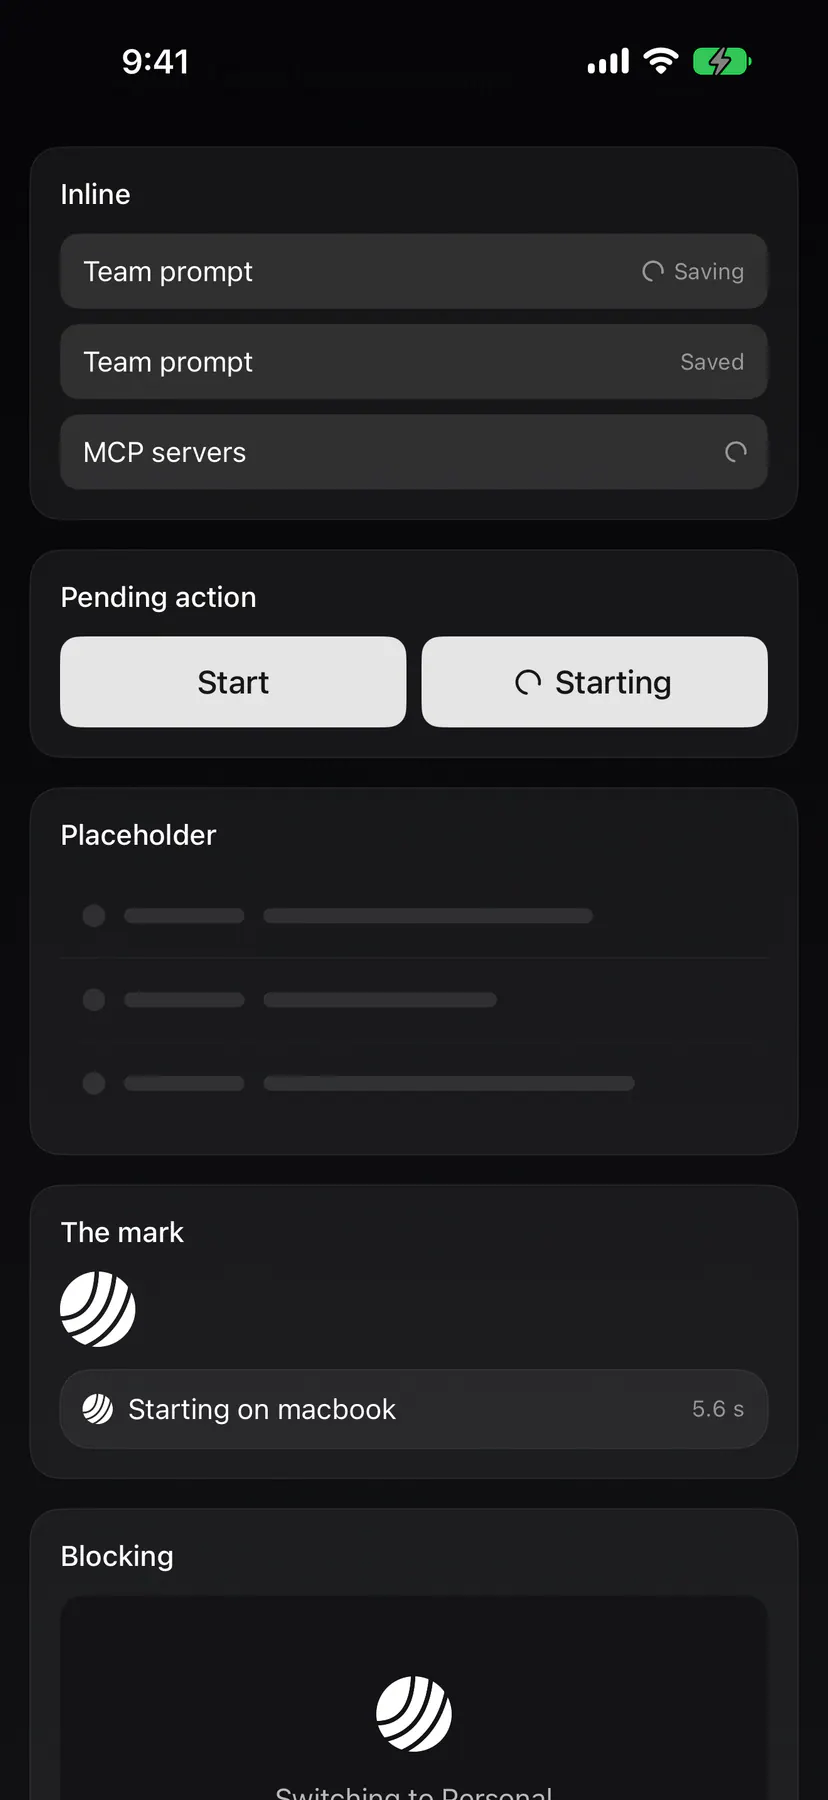
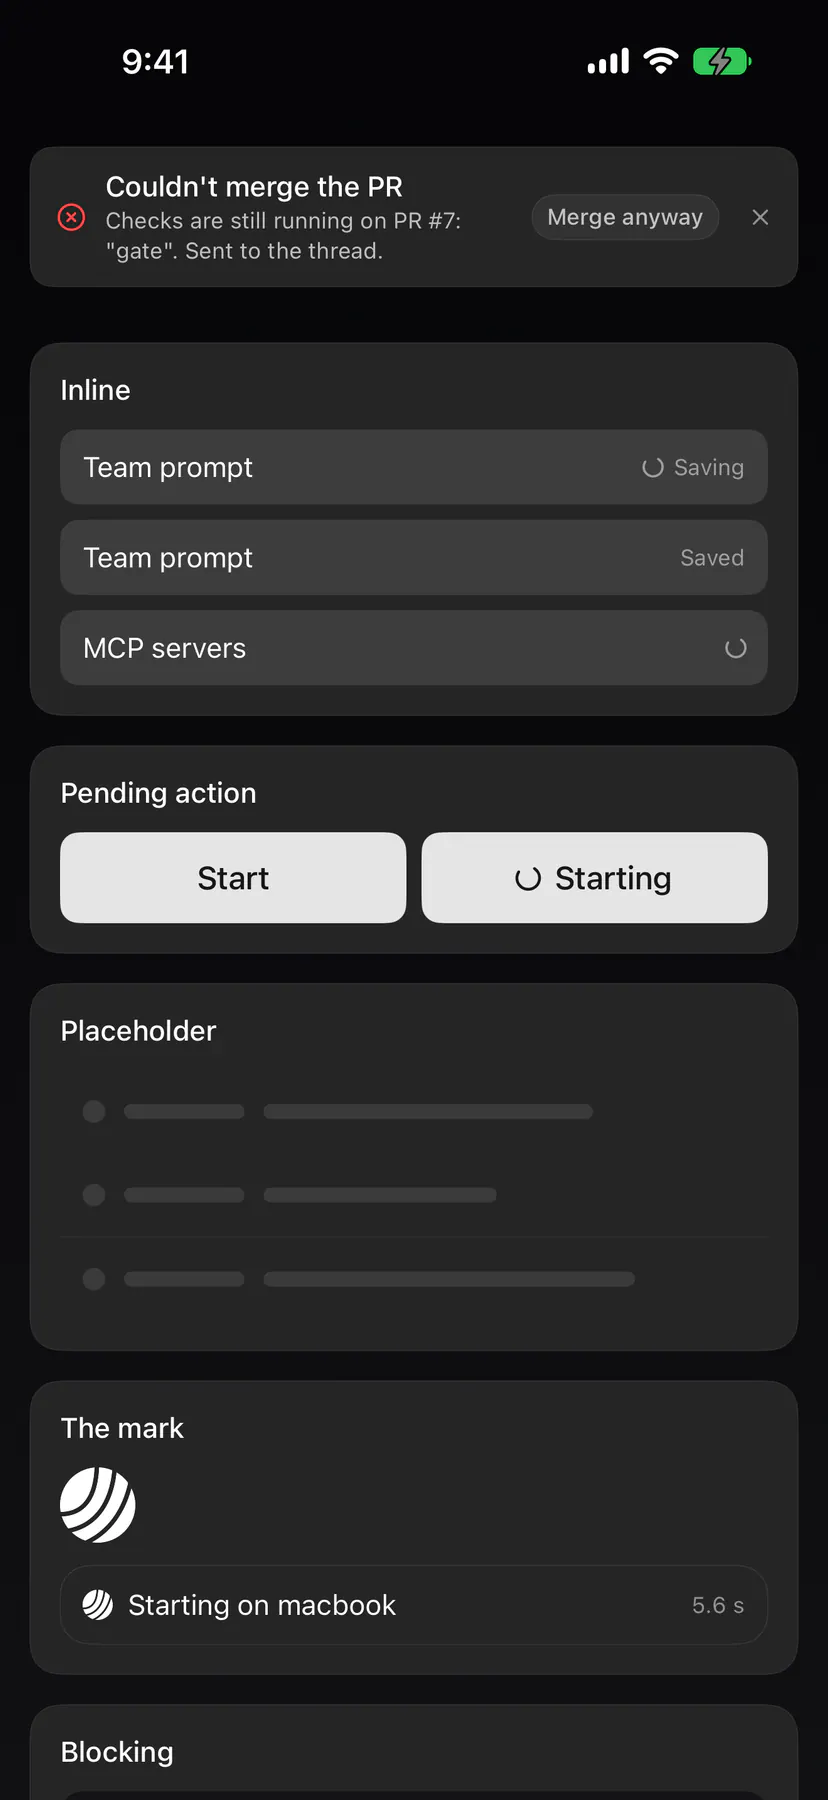
EXP-1378: feedback-states phone shots with the merge refusal toast
iOS pins the toast card at the top (a live toast's clock ran out before
the capture); Android raises it live in front of the Retry toast.

diff --git a/apps/ios/Exponential/UI/Components/FeedbackStatesScreen.swift b/apps/ios/Exponential/UI/Components/FeedbackStatesScreen.swift
@@ -63,26 +63,31 @@ struct FeedbackStatesScreen: View {
                     }
                 }
                 .padding(16)
+                // The top clears the error toast pinned over the screen.
+                .padding(.top, 104)
+            }
+            // (6) ERRORS: a failed action is THE toast. A live toast's clock
+            // runs out before the capture, so the specimen pins the card at
+            // the touch placement (top-centre): EXP-1391 + EXP-1378, the
+            // check gate's refusal offers Merge anyway instead of Retry.
+            VStack {
+                ToastCard(
+                    item: ToastItem(
+                        kind: .error,
+                        title: FeedbackStates.Errors.title(verb: "merge", thing: "the PR"),
+                        description: "Checks are still running on PR #7: \"gate\". \(FeedbackStates.Errors.MergeRefusal.handoff)",
+                        action: ToastAction(label: FeedbackStates.Errors.MergeRefusal.force) {}
+                    ),
+                    onDismiss: {}
+                )
+                .padding(.horizontal, ToastHostMetrics.screenInset)
+                .padding(.top, ToastHostMetrics.screenInset)
+                Spacer()
             }
         }
         .preferredColorScheme(.dark)
         .accessibilityElement(children: .contain)
         .accessibilityIdentifier("feedback-states-screen")
-        .onAppear {
-            // (6) ERRORS: a failed action is THE toast, with Retry.
-            Toaster.shared.error(
-                FeedbackStates.Errors.title(verb: "save", thing: "the team prompt"),
-                description: "Network error",
-                action: ToastAction(label: FeedbackStates.Errors.retry) {}
-            )
-            // EXP-1391 + EXP-1378: the check gate's refusal offers Merge
-            // anyway instead of Retry; in front, the Retry one peeks.
-            Toaster.shared.error(
-                FeedbackStates.Errors.title(verb: "merge", thing: "the PR"),
-                description: "Checks are still running on PR #7: \"gate\". \(FeedbackStates.Errors.MergeRefusal.handoff)",
-                action: ToastAction(label: FeedbackStates.Errors.MergeRefusal.force) {}
-            )
-        }
     }
 
     private func card<Content: View>(_ title: String, @ViewBuilder content: () -> Content) -> some View {
